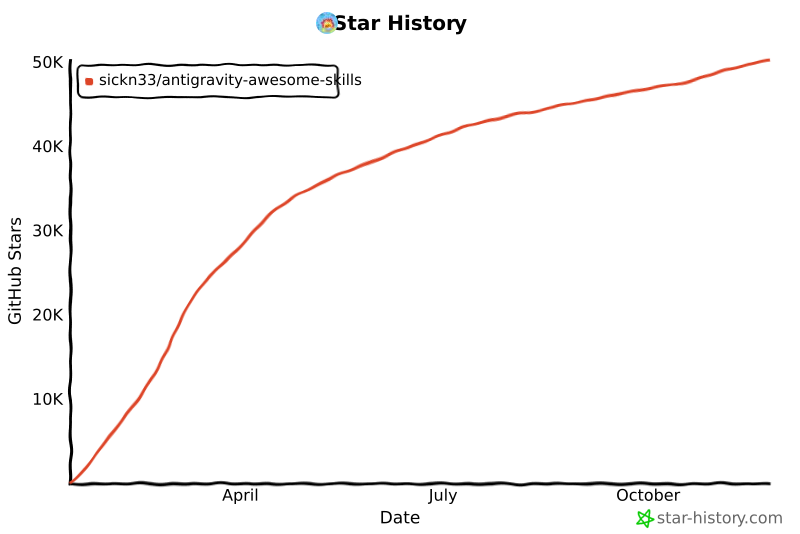
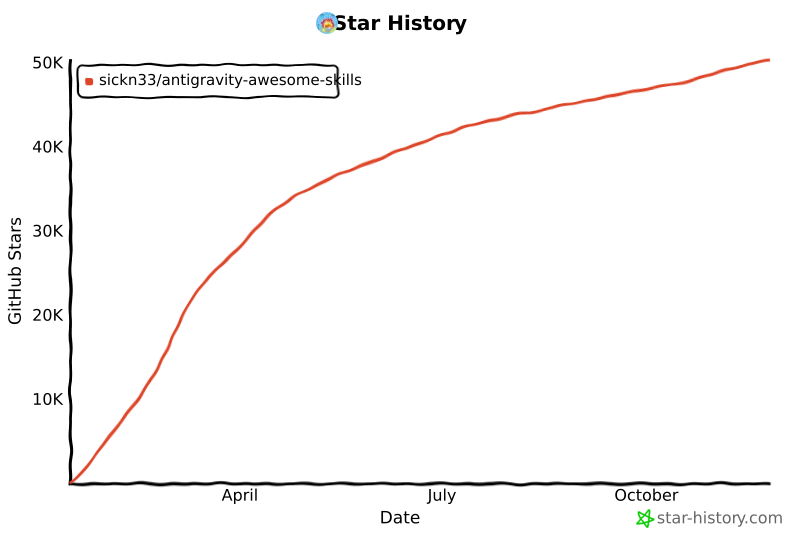
chore: update star history chart

diff --git a/README.md b/README.md
@@ -526,14 +526,14 @@ We officially thank the following contributors for their help in making this rep
 ## Star History
 
 <a href="https://www.star-history.com/#sickn33/antigravity-awesome-skills&type=date&legend=top-left">
- <img alt="Star History Chart" src="https://api.star-history.com/svg?repos=sickn33/antigravity-awesome-skills&type=date&legend=top-left&cache_bust=202611251634" />
+ <img alt="Star History Chart" src="https://api.star-history.com/svg?repos=sickn33/antigravity-awesome-skills&type=date&legend=top-left&cache_bust=202611261607" />
 </a>
 
 <a href="https://www.star-history.com/sickn33/antigravity-awesome-skills">
  <picture>
-   <source media="(prefers-color-scheme: dark)" srcset="https://api.star-history.com/chart?repos=sickn33/antigravity-awesome-skills&style=landscape1&theme=dark&cache_bust=202611251634" />
-   <source media="(prefers-color-scheme: light)" srcset="https://api.star-history.com/chart?repos=sickn33/antigravity-awesome-skills&style=landscape1&cache_bust=202611251634" />
-   <img alt="Star History Chart" src="https://api.star-history.com/chart?repos=sickn33/antigravity-awesome-skills&style=landscape1&cache_bust=202611251634" />
+   <source media="(prefers-color-scheme: dark)" srcset="https://api.star-history.com/chart?repos=sickn33/antigravity-awesome-skills&style=landscape1&theme=dark&cache_bust=202611261607" />
+   <source media="(prefers-color-scheme: light)" srcset="https://api.star-history.com/chart?repos=sickn33/antigravity-awesome-skills&style=landscape1&cache_bust=202611261607" />
+   <img alt="Star History Chart" src="https://api.star-history.com/chart?repos=sickn33/antigravity-awesome-skills&style=landscape1&cache_bust=202611261607" />
  </picture>
 </a>
 
